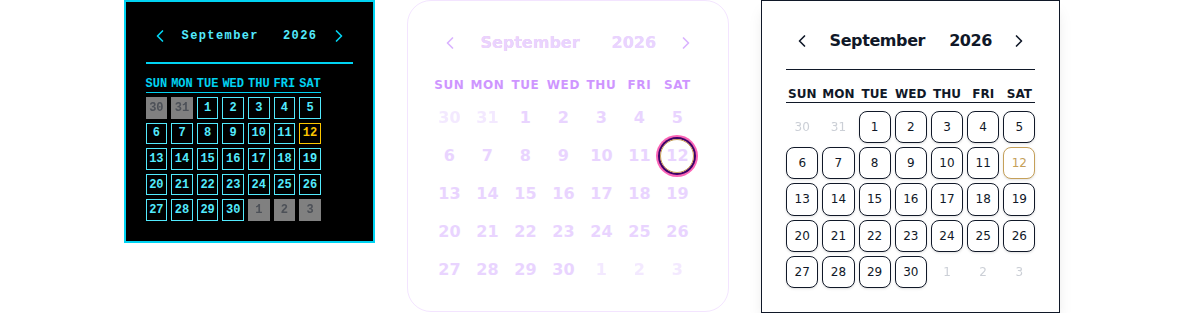
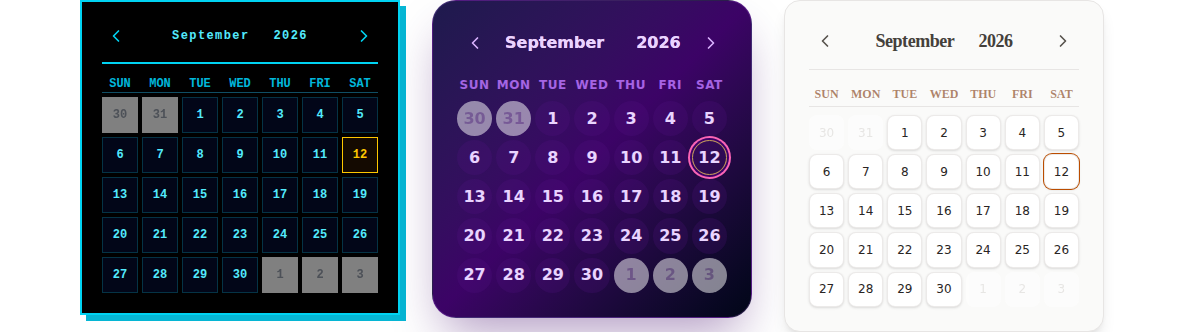
docs: add remaining recipes and preview images to README
Added code examples and corresponding preview images for all feature recipes in README.md, including range selection, multiple date selection, custom header/footer, custom styling themes, form integration, headless/custom UI with useDates, availability/booking picker, yearly view, event calendar, and localization/i18n.

diff --git a/examples/basic/app/styling/page.tsx b/examples/basic/app/styling/page.tsx
@@ -15,13 +15,14 @@ export default function StylingPage() {
           <Calendar
             classNames={{
               root: 'bg-black p-5 border-2 border-cyan-400 font-mono text-cyan-400 shadow-[6px_6px_0px_0px_rgba(6,182,212,1)] rounded-none w-[320px]',
-              calendarContainer: 'min-h-0 flex flex-col',
+              calendarsContainer: 'w-full',
+              calendarContainer: 'w-full min-h-0 flex flex-col',
               header: 'flex items-center justify-between pb-3 border-b-2 border-cyan-400 mb-3',
               monthYearLabel: 'flex gap-2 items-center font-extrabold text-sm tracking-widest uppercase text-cyan-300',
               monthYearButton: 'hover:bg-cyan-950 px-2 py-0.5 transition-colors text-cyan-300 text-xs rounded-none',
-              weekdayGrid: 'grid grid-cols-7 gap-1 mb-1 border-b border-cyan-900',
+              weekdayGrid: 'grid grid-cols-7 gap-1 mb-1 border-b border-cyan-900 w-full',
               weekday: 'text-cyan-500 font-bold text-xs uppercase text-center',
-              daysGrid: 'grid grid-cols-7 gap-1 bg-transparent',
+              daysGrid: 'grid grid-cols-7 gap-1 bg-transparent w-full',
               day: {
                 day: 'rounded-none border border-cyan-950 font-bold text-xs transition-all aspect-square flex items-center justify-center',
                 unselected: 'bg-slate-950 hover:border-cyan-400 hover:bg-cyan-950 text-cyan-300',
@@ -39,13 +40,14 @@ export default function StylingPage() {
           <Calendar
             classNames={{
               root: 'bg-gradient-to-br from-indigo-950 via-purple-950 to-slate-950 p-6 rounded-3xl border border-purple-400/20 shadow-2xl shadow-purple-950/40 text-purple-100 w-[320px]',
-              calendarContainer: 'min-h-0 flex flex-col',
+              calendarsContainer: 'w-full',
+              calendarContainer: 'w-full min-h-0 flex flex-col',
               header: 'flex items-center justify-between mb-4',
               monthYearLabel: 'flex gap-2 items-center font-extrabold text-transparent bg-clip-text bg-gradient-to-r from-pink-300 to-purple-200 text-base',
               monthYearButton: 'hover:bg-purple-800/40 px-3 py-1 rounded-full transition-colors text-purple-200',
-              weekdayGrid: 'grid grid-cols-7 gap-1 mb-2',
+              weekdayGrid: 'grid grid-cols-7 gap-1 mb-2 w-full',
               weekday: 'text-purple-400/80 font-semibold text-xs tracking-wider uppercase text-center',
-              daysGrid: 'grid grid-cols-7 gap-1 bg-transparent',
+              daysGrid: 'grid grid-cols-7 gap-1 bg-transparent w-full',
               day: {
                 day: 'rounded-full transition-all duration-200 font-semibold text-purple-200 aspect-square flex items-center justify-center',
                 unselected: 'bg-purple-900/20 hover:bg-purple-500/30 hover:text-white',
@@ -63,13 +65,14 @@ export default function StylingPage() {
           <Calendar
             classNames={{
               root: 'bg-stone-50 p-6 rounded-2xl border border-stone-200 shadow-lg text-stone-800 w-[320px]',
-              calendarContainer: 'min-h-0 flex flex-col',
+              calendarsContainer: 'w-full',
+              calendarContainer: 'w-full min-h-0 flex flex-col',
               header: 'flex items-center justify-between mb-4 border-b border-stone-200 pb-3',
               monthYearLabel: 'flex gap-2 items-center font-serif text-stone-900 text-lg font-bold tracking-tight',
               monthYearButton: 'hover:bg-stone-200/60 px-2 py-0.5 rounded transition-colors text-stone-700',
-              weekdayGrid: 'grid grid-cols-7 gap-1 mb-2 border-b border-stone-200 pb-1',
+              weekdayGrid: 'grid grid-cols-7 gap-1 mb-2 border-b border-stone-200 pb-1 w-full',
               weekday: 'text-amber-900/60 font-serif font-bold text-xs uppercase text-center',
-              daysGrid: 'grid grid-cols-7 gap-1 bg-transparent',
+              daysGrid: 'grid grid-cols-7 gap-1 bg-transparent w-full',
               day: {
                 day: 'rounded-lg transition-all font-sans text-xs font-medium aspect-square flex items-center justify-center',
                 unselected: 'bg-white border border-stone-200/80 hover:bg-amber-100/50 hover:border-amber-400 text-stone-800 shadow-sm',
